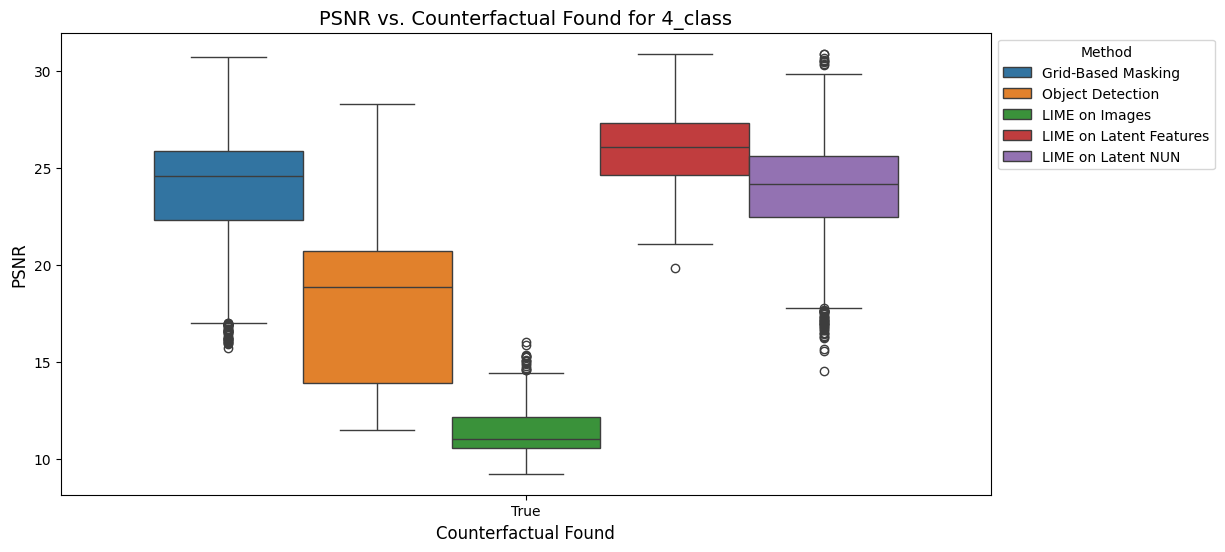
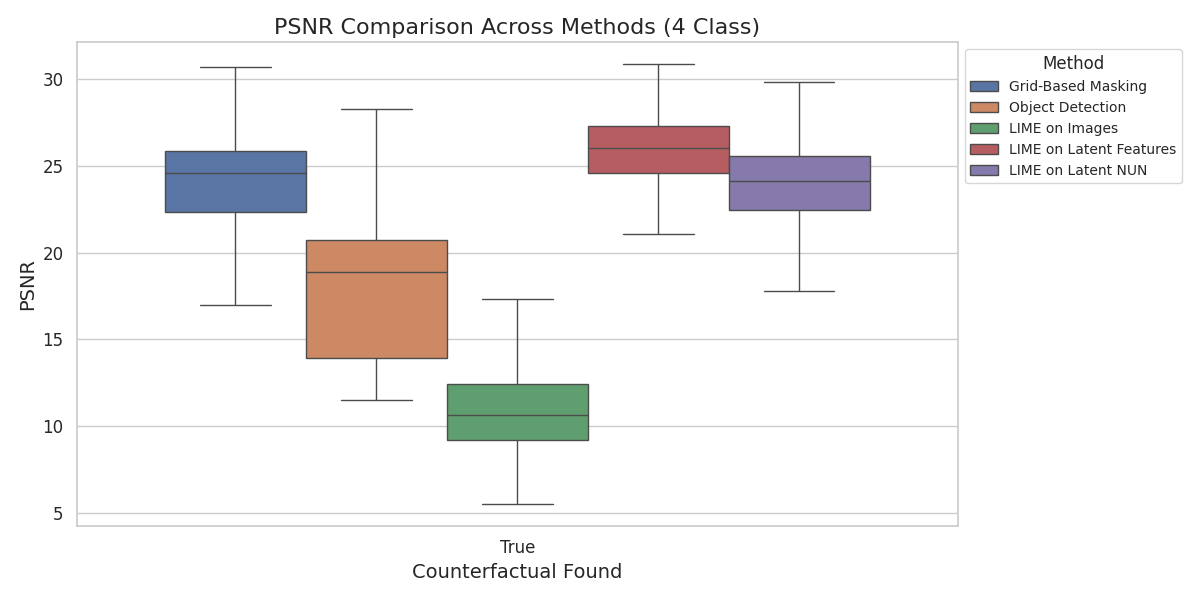
Sanity check

diff --git a/Projects/calculate_results/sanity_check.py b/Projects/calculate_results/sanity_check.py
@@ -1,28 +1,18 @@
 import os
-import sys
 import pandas as pd
 import matplotlib.pyplot as plt
 import seaborn as sns
-import logging
 
-# Setup logging
-logging.basicConfig(level=logging.INFO, format='%(asctime)s - %(levelname)s - %(message)s')
+# Set style for visuals
+sns.set(style="whitegrid")
 
-# ------------------------------------------------------------------------------
-# Define Class Types to Process (2_class and 4_class)
-# ------------------------------------------------------------------------------
+# Metrics and class types
+metrics_to_plot = ["SSIM", "PSNR", "MSE"]
 class_types = ["2_class", "4_class"]
 
-# Loop through each class type
-for class_type in class_types:
-    # Determine the suffix used in file names for this class type
-    class_suffix = "2_classes" if class_type == "2_class" else "4_classes"
-
-    # ------------------------------------------------------------------------------
-    # Setup: Define Paths & Create Output Directories
-    # ------------------------------------------------------------------------------
-    # Define file paths for different methods based on the class type
-    METHODS_FILES = {
+# Define method paths
+def get_methods_files(class_suffix):
+    return {
         "Grid-Based Masking": f"results/masking/grid_based/grid_based_masking_{class_suffix}_results.csv",
         "Object Detection": f"results/masking/object_detection/object_detection_masking_{class_suffix}_results.csv",
         "LIME on Images": f"results/masking/lime_on_images/lime_on_image_masking_{class_suffix}_results.csv",
@@ -30,110 +20,54 @@ for class_type in class_types:
         "LIME on Latent NUN": f"results/masking/lime_on_latent/{class_suffix}_NUN_results.csv"
     }
 
-    # Define output directories for plots and results specific to the class type
-    PLOTS_DIR = os.path.join("plots", "sanity_check", class_type)
-    RESULTS_DIR = os.path.join("results", "sanity_check", class_type)
-    os.makedirs(PLOTS_DIR, exist_ok=True)
-    os.makedirs(RESULTS_DIR, exist_ok=True)
+# Process each class type
+for class_type in class_types:
+    class_suffix = "2_classes" if class_type == "2_class" else "4_classes"
+    methods_files = get_methods_files(class_suffix)
 
-    # ------------------------------------------------------------------------------
-    # Load Data
-    # ------------------------------------------------------------------------------
+    # Output directory
+    plots_dir = os.path.join("plots", "sanity_check", class_type)
+    os.makedirs(plots_dir, exist_ok=True)
+
+    # Load data
     df_list = []
-    for method, filepath in METHODS_FILES.items():
-        try:
-            if os.path.exists(filepath):
-                df = pd.read_csv(filepath)
-                df["Method"] = method  # add method column
-                df_list.append(df)
-                logging.info(f"Loaded {method} results from {filepath}")
-            else:
-                logging.warning(f" Warning: {filepath} not found. Skipping {method}...")
-        except Exception as e:
-            logging.error(f"Error loading {filepath}: {e}")
+    for method, filepath in methods_files.items():
+        if os.path.exists(filepath):
+            df = pd.read_csv(filepath)
+            df["Method"] = method
+            df_list.append(df)
 
     if not df_list:
-        logging.warning(f"No data loaded for {class_type}. Skipping this class type.")
+        print(f"No valid files found for {class_type}. Skipping...")
         continue
 
-    # Merge data from all methods
-    df = pd.concat(df_list, ignore_index=True)
+    df_combined = pd.concat(df_list, ignore_index=True)
+    df_true = df_combined[df_combined["Counterfactual Found"] == True]
 
-    # Check if all methods are included
-    loaded_methods = df["Method"].unique()
-    for method in METHODS_FILES.keys():
-        if method not in loaded_methods:
-            logging.warning(f"Method {method} not found in the loaded data.")
-
-    # Check if the required columns exist
-    required_columns = ["Method", "Image File", "Counterfactual Found", "PSNR", "SSIM", "MSE", "UQI", "VIFP"]
-    missing_columns = [col for col in required_columns if col not in df.columns]
-    if missing_columns:
-        logging.error(f"Missing columns in the data: {missing_columns}")
-        continue
-
-    # ------------------------------------------------------------------------------
-    # Data Preprocessing
-    # ------------------------------------------------------------------------------
-    # Select only the relevant columns
-    df = df[required_columns]
-
-    # Filter rows where Counterfactual Found == True
-    df_true = df[df["Counterfactual Found"] == True]
-
-    # Check if there are any rows where Counterfactual Found == True
     if df_true.empty:
-        logging.warning(f"No rows where Counterfactual Found == True for {class_type}. Skipping this class type.")
+        print(f"No counterfactuals found for {class_type}. Skipping...")
         continue
 
-    # ------------------------------------------------------------------------------
-    # Function: Save Boxplots (with Legends)
-    # ------------------------------------------------------------------------------
-    def save_boxplot(metric):
-        """
-        Generates and saves a boxplot for a given metric comparing methods.
-        
-        Args:
-            metric (str): The metric to plot (e.g., "PSNR", "SSIM").
-        """
-        plt.figure(figsize=(12, 6))  # Increased width to accommodate more methods
-        # Use 'Counterfactual Found' as the x-axis (will be True for all rows)
-        # and use hue="Method" to display the different methods along with a legend.
-        sns.boxplot(data=df_true, x="Counterfactual Found", y=metric, hue="Method")
-        plt.title(f"{metric} vs. Counterfactual Found for {class_type}", fontsize=14)
-        plt.xlabel("Counterfactual Found", fontsize=12)
-        plt.ylabel(metric, fontsize=12)
-        plt.legend(title="Method", fontsize=10, loc='upper left', bbox_to_anchor=(1, 1))
-        plot_path = os.path.join(PLOTS_DIR, f"{metric.lower()}_boxplot_{class_type}.png")
-        plt.savefig(plot_path, bbox_inches='tight')
+    # Generate boxplots without outliers
+    for metric in metrics_to_plot:
+        plt.figure(figsize=(12, 6))
+        ax = sns.boxplot(
+            data=df_true,
+            x="Counterfactual Found",
+            y=metric,
+            hue="Method",
+            showfliers=False  # Remove small outlier circles
+        )
+        ax.set_title(f"{metric} Comparison Across Methods ({class_type.replace('_', ' ').title()})", fontsize=16)
+        ax.set_xlabel("Counterfactual Found", fontsize=14)
+        ax.set_ylabel(metric, fontsize=14)
+        plt.xticks(fontsize=12)
+        plt.yticks(fontsize=12)
+        plt.legend(title="Method", fontsize=10, title_fontsize=12, loc='upper left', bbox_to_anchor=(1, 1))
+        plt.tight_layout()
+
+        # Save plot
+        plot_path = os.path.join(plots_dir, f"{metric.lower()}_boxplot_{class_type}.png")
+        plt.savefig(plot_path)
         plt.close()
-        logging.info(f" {metric} boxplot saved at: {plot_path}")
-
-    # Generate and save boxplots for each metric
-    for metric in ["PSNR", "SSIM", "MSE", "UQI", "VIFP"]:
-        save_boxplot(metric)
-
-    # ------------------------------------------------------------------------------
-    # Compute Summary Statistics (Only for True Cases)
-    # ------------------------------------------------------------------------------
-    summary = df_true.groupby("Method").agg({
-        "PSNR": ["mean", "std", "min", "max"],
-        "SSIM": ["mean", "std", "min", "max"],
-        "MSE": ["mean", "std", "min", "max"],
-        "UQI": ["mean", "std", "min", "max"],
-        "VIFP": ["mean", "std", "min", "max"]
-    }).reset_index()
-
-    # Flatten MultiIndex columns
-    summary.columns = [' '.join(col).strip() if isinstance(col, tuple) else col for col in summary.columns]
-
-    # Check if all methods are included in the summary
-    if len(summary) != len(METHODS_FILES):
-        logging.warning(f"Some methods are missing in the summary for {class_type}. Expected {len(METHODS_FILES)}, got {len(summary)}.")
-
-    # ------------------------------------------------------------------------------
-    # Save Summary as CSV
-    # ------------------------------------------------------------------------------
-    csv_path = os.path.join(RESULTS_DIR, f"sanity_check_image_vs_ce_metrics_{class_type}.csv")
-    summary.to_csv(csv_path, index=False)
-    logging.info(f"Sanity check summary saved to:\n CSV: {csv_path}\n")
+        print(f"Saved: {plot_path}")
